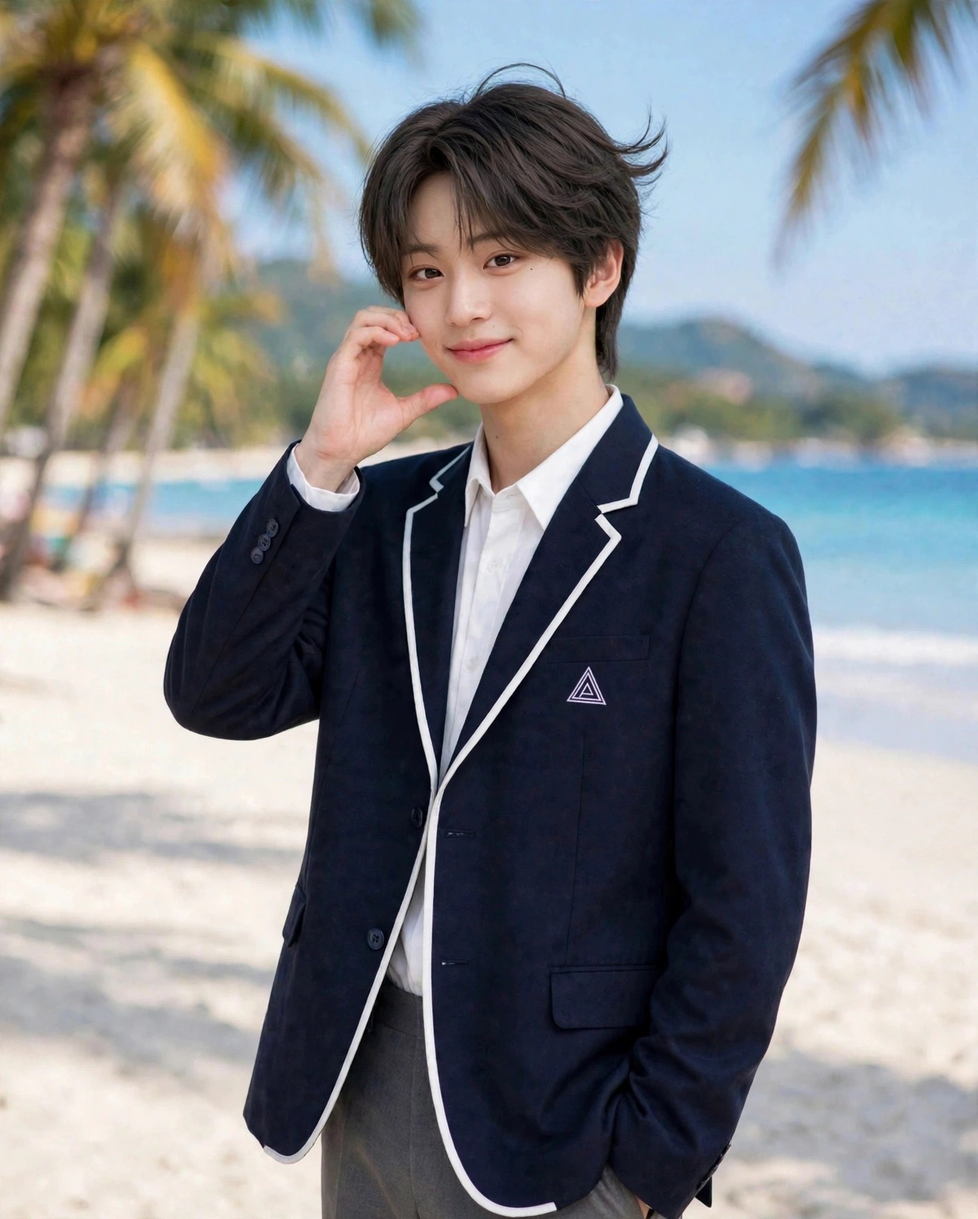
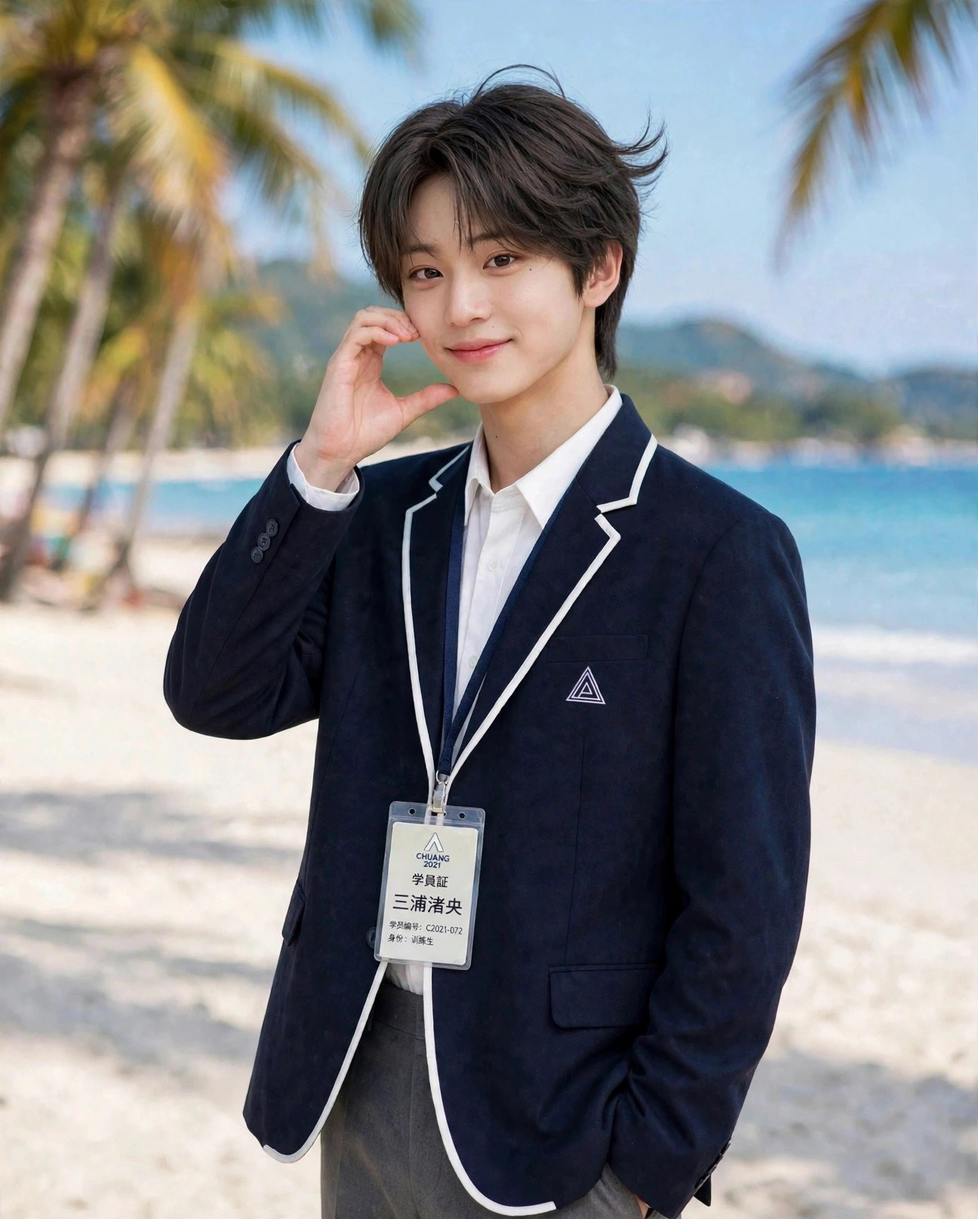
v153: 2021プロフィールに学員証を追加

diff --git a/index.html b/index.html
@@ -732,7 +732,7 @@ body{font-family:-apple-system,"Hiragino Kaku Gothic ProN","Noto Sans JP",sans-s
 <script>
 "use strict";
 const $=s=>document.querySelector(s);
-const VER="v152";
+const VER="v153";
 /* ============ state ============ */
 const DEF={idx:0,started:false,consented:false,soundOn:true,
  g:{iwakan:0,bare:0,todoita:0,uta:8,dance:4,ishi:50},
@@ -2472,7 +2472,7 @@ function renderSettings(tab){setTab=tab;document.querySelectorAll("#set-tabs but
  <div class="srow"><span>到達した結末</span><span class="sv">${S.trueEnd?"TRUE END ― 現在":S.normalEnd?"END ― 通常現在":S.loopBad?"BAD END ― ループ継続":S.bareEnd?"END ― 秘密バレIF":S.ridatsuEnd?"END ― 離脱した現在":"（まだ到達していません）"}</span></div>
  <div class="srow"><span>サウンド</span><span class="sv"><button id="snd-btn" style="background:${S.soundOn!==false?"#17172a":"#c6c6d4"};color:#fff;border:none;border-radius:999px;padding:6px 18px;font-size:12.5px;font-weight:700;cursor:pointer">${S.soundOn!==false?"ON":"OFF"}</button></span></div>
  <div class="srow"><span>フィクション</span><span class="sv">実在の記録をもとにした創作です</span></div>
- <div class="srow"><span>アップデート</span><span class="sv">v16 サウンドと画面遷移／v17 差分再演REPLAYとDiff時代別表示／v18 現在の小さな変化／v19 トークのスレッドとフリーチャット／v20・v23・v32 場面カットの追加／v21 日常回（食堂の夜・売店の夜）／v22 番組アプリの情報デザイン／v24 ホーム背景の時代連動と進行％／v25 タイトルのスライドショー／v26 彼の画面のカウンタ／v27 ロック画面の通知スタック／v28 写真の全画面ビューア／v30 章ごとの記録カード／v31 フィナーレ直前の彼の視点／v33 フリーチャットの時代別応答／v34 投票レシート／v35 ミッション進捗バー／v36 ゲージの危険域表示／v37 選んだ記録の判別表示／v38 台帳の時代別表示／v39 Keepsakeの時代バッジ／v41 章名つきロック画面／v42 トークの新着バッジ／v43 名簿の詳細パネル／v44 写真のスワイプ送り／v45 BGMの時代連動／v46 順位・差分の専用SE／v47 長押し早送り／v48 章セレクト／v50 REPLAY再演の追加／v52 日常回（コンビニの夜）／v53 タイトル通知のセーブ連動／v54 アプリアイコンのバッジ／v55 主人公の正式名「三浦渚央」と2019プロフィールの新フェイス差し替え／v56〜v59 プロフィール・場面カットの新フェイス再生成／v60 カード画角の統一（頭部55〜60%）と三浦渚央の順位表示／v61 名簿メモへの順位追記と凡例／v62 周B順位発表の彼の視点／v63 ストーリーバナーのサムネ時代連動／v64 タイトルに正式名／v65 ロック画面に順位通知／v66 情報タブに順位の記録／v67 順位行の文字色修正／v68 現在の小さな変化（順位の残響）／v69 写真メモに順位結果／v70 節目 ― 全アプリ走査／v71 フリーチャットの話題追加／v72 トークのチップ追加／v73・v74 順位タブの空状態整理／v75 順位変動のDiff記録／v76 節目 ― 全アプリ走査／v77 2021周A・初回ステージ後に彼の画面を追加／v78 2023周A・ファンカム章に彼の視点（インライン）を追加／v79 2019周A・順位発表式に彼の視点（インライン）を追加／v80 2023周A・VERY NICE本番前に彼の視点（インライン）を追加／v81 2023周A・寮の夜に彼の視点（インライン）を追加／v82 2019周A・届くはずのなかった手紙に彼の視点（インライン）を追加／v83 フリーチャットの話題拡充（2019専用プール＋新キーワード6種＋チップ追加）／v84 周Aの彼の記憶の線引きで全監査（2021・2023到着場面と彼の画面3件を連続した同僚の前提に書き換え）／v85 2019周A・練習室の夜に彼の視点（インライン）を追加／v86 2021周A・寮の一夜に彼の視点（インライン）を追加／v87 2023周A・コンビニの夜に彼の視点（インライン）を追加／v88 台帳・Keepsake・Diffの時代分類を修正（NXD期グループ新設、誤分類6件を是正）／v89 場面カット追加（2023順位発表の夜・face2基準で新規生成）／v90 場面カット追加（2021ファイナルの夜・face2基準で新規生成）／v91 節目 ― 全アプリ走査／v92 日常回「自販機の夜」（2023・周B）を追加／v93 2019周A・レベル分け評価に彼の視点（インライン）を追加／v94 写真アプリに時代別グルーピング（見出し＋枚数）を追加／v95 場面カット追加（NXD期・夜の練習室、face2基準で新規生成）／v96 フリーチャットの時代別プールを拡充（各時代＋2件）／v97 2019周B・発覚に彼の視点（インライン）を追加／v98 2021周B・再会に彼の視点（インライン）を追加／v99 2023周B・発覚に彼の視点（インライン）を追加／v100 節目 ― 全編通しプレイ検証／v101 効果音の配線追加（台帳・Keepsake・彼の視点）／v102 トークに彼のメッセージを3件追加／v103 タイトルのスライドショー拡充（8枚）とホーム背景のNXD期差し替え／v104 2023周B・再会に彼の視点（インライン）を追加／v105 2021周B・売店の夜に彼の視点（インライン）を追加／v106 NXD期・周B「移籍の決断」に彼の視点（インライン）を追加／v107 2023周B・共同作戦に彼の視点（インライン）を追加／v108 2019周B・共同作戦（ツカメ対策）に彼の視点（インライン）を追加／v109 2021周B・共同作戦に彼の視点（インライン）を追加／v110 NXD期・周B「延期の季節 ― 二度目」に彼の視点（インライン）を追加／v111 フリーチャット拡充（キーワード応答3種・チップ2件・現在編プール拡充）／v112 節目 ― 全アプリ走査／v113 2023周B・自販機の夜に彼の視点（インライン）を追加／v114 2019周A・食堂の夜に彼の視点（インライン）を追加／v115 2021周B・順位発表の締めに彼の視点（インライン）を追加／v116 設計ドキュメントの実装状況を更新／v117 場面カット追加（2019食堂の夜・face2基準で新規生成）／v118 場面カット追加（2021売店の夜・face2基準で新規生成）／v119 場面カット追加（2023コンビニの夜・face2基準で新規生成）／v120 背景の差し替え（現在編の冒頭とソロデビューの場面）／v121 節目 ― 全編通しプレイ検証（v101〜v120の追加後）／v122 画像出典メモ（IMAGE_SOURCES.md）に新規カット6点とface2基準を追記／v123 READMEの状態表記を現行（本編完結・公開中）に更新／v124 視覚QAで発見した順位タブの防御的修正（順位値の欠損時に最低ラインへフォールバック）／v125 節目 ― 全画面の視覚QA（撮影確認）／v126 節目 ― 別エンディング到達検証（秘密バレIF・離脱した現在）／v127 節目 ― 全5エンディング到達検証の完了（通常現在・ループ継続BADを追加確認）／v128 設計ドキュメントの実装状況に最終検証結果を追記／v129 READMEの現行版表記を更新／v130 生成メタファイルを .gitignore に追加して作業ツリーを整理／v131 「届くはずのなかった手紙」に背景を設定（食堂カットの引き継ぎを解消）／v132 フリーチャットの応答拡充（キーワード応答8種・時代別プール各+2件・チップ2件を追加）／v133 仕上げのUI調整（ホームのアプリアイコンのラベルの可読性を向上、ストーリー画面のゲージチップを均等な3+3配置に整形）／v134 フリーチャットに語学の話題を追加（中国語・韓国語・英語へのキーワード応答）／v135 節目 ― 朝まで改修の最終版（全アプリ走査・ドキュメント同期）／v136 トークを実物化（1相手=1スレッドに集約・未読バッジ・プレビュー・実物時刻・日付チップ・自分の送信への既読表示。仕組みは『現役アイドル、Tinderやってた件』のLINEと『キープ管理中！』の未読管理から移植）／v137 2021・2023の渚央プロフィールを制服版に統一（創造営の紺制服／ボイプラの淡グレー制服。名簿・順位・パネル・背景・写真の参照を全て profile-uniform 系へ）／v138 ロック画面とホームの実物化（主通知の送信者を実アプリ名にし未読トークがあれば最新メッセージを表示、日付を月日＋曜日の実物形式に、ホームと写真の操作説明文を撤去）／v139 トークをTinder版（v462）LINEと実測比較して一致（バブルの角・色・文字サイズ、入力欄、送信ボタン、日付チップ、一覧の行構成と検索ボックス、スレッドヘッダーのアバター）／v140 トークにLINEアプリのシェルを移植（下部タブバー＋タブ画面を新設。タブの数・並び・切替挙動はTinder版LINEと同一で、ホームタブは三浦渚央のプロフィール＋届いた応援カード＋友だちリストのパネル、ニュースは番組アプリ、その他は設定・記録へ接続）／v141 ロック画面の進化（時計を88px・太字に、通知カードをblur20px＋saturateの実物仕様にして幅を統一、スタック通知のアイコンをアプリ別SVGに分けて出現をスタッガード化。ステータスバーと電池％を追加し、壁紙を時代連動＋緩やかなズームに。下部のライトは白フラッシュが光る実働ボタンに、カメラは写真アプリへ直行。通知はタップで該当アプリ・記録へ遷移）／v142 ホーム画面の進化（Tinder版ホームのページ構成を移植：飾りだったドットを実働の2ページ化にし、横スワイプとドットタップで切替。2ページ目に物語暦のカレンダーウィジェットと時代のカットが切り替わる写真ウィジェットを新設し、記録サマリと次のミッションを移設。ドットの横に検索ピルを追加し、アプリ・記録を検索して直接開けるシートを実装。下部にガラスのドック（トーク／写真／番組アプリ／設定・記録、バッジ連動）を追加。ステータスバーに電池％、壁紙に緩やかなズーム）／v143 ロック画面の通知スタックの隙間を修正（ベースCSSの上マージン34pxがスタック内の通知にも効いて間隔が42pxに広がっていたのを、実物どおり8pxに統一。あわせて通知領域を時計の下〜下部ボタンの上のスクロール領域にして、通知が多くてもライト／カメラのボタンやヒント文字に重ならないようにした）／v144 写真アプリの進化（『現役アイドル、Tinderやってた件』の写真アプリから移植：2列カード型だったグリッドを3列・隙間2px・正方形の実物仕様にし、時代見出し＋枚数のヘッダーと上部のピル型タブ（すべて／時代別で絞り込み）を新設。ビューアはお気に入り（セーブに保持、グリッドにもハート表示）とスライドショーを追加し、送りを循環式から端で止まるクランプ式に変更、キャプション＋差分メモ＋時代＋通し番号のメタ表示とキー操作に対応。複数選択モード（最大4枚）からコラージュを作成でき、ロック画面の壁紙にも設定できる（時代連動に戻す導線つき）。中身の時代別カットと枚数は従来どおり）／v145 アプリアイコンをTinder版の様式に統一（アイコンを全面SVG化し、背景レイヤーまで1枚に収める方式へ。トーク＝LINE・写真・設定・記録はTinder版と同型のアイコンに、番組アプリは金の縦グラデーション＋王冠のグリフで同水準に。アイコンの角丸と影もTinder版の実測値に一致。あわせてラベル用ピルのCSSがドックのアイコンにも漏れて円形になっていた不具合を修正し、ドックでもグリッドと同じ角丸アイコンが並ぶようにした）／v147 渚央の顔を最終基準（本人の写真由来の顔＋クールな髪型）へ差し替え開始。2023編のプロフィール（基準画像そのものへ差し替え、カード用クロップも新基準で作成）と場面カット全8点を基準顔で再生成／v148 2021編を新基準へ差し替え（プロフィールは19歳相当＋創造営制服＋屋外背景で新規生成、カード用クロップも作成。場面カット5点＝daily／practice／ranking-close／study／shop-nightを19歳相当の基準顔で再生成。stageは次版で差し替え予定）／v149 2019編を新基準へ全面差し替え（プロフィールは17歳相当で再生成し直し、カード用クロップも新規作成。場面カット7点＝stage／stage2／dorm／practice／ranking-close／selfie／cafeteriaを17歳相当の基準顔で再生成）。リンクプレビュー用のog:image（新stageから作成）も新設／v150 旧素材（候補ファイル群・旧プロフィール）を保管庫へ退避し、顔素材を新基準のラインに統一（表示内容の変更なし）／v151 2021のステージカットを新顔基準（19歳版）で差し替え、顔の全面差し替えが完了／v152 全時代のプロフィールをポーズ付きに作り直し（2019＝ガッツポーズの全身ショット、2021＝頬ハートの膝上ショット、2023＝腕組みのウエスト上ショット。顔は新基準のラインを維持し、寄りクロップも新しい全身から作り直し）</span></div>
+ <div class="srow"><span>アップデート</span><span class="sv">v16 サウンドと画面遷移／v17 差分再演REPLAYとDiff時代別表示／v18 現在の小さな変化／v19 トークのスレッドとフリーチャット／v20・v23・v32 場面カットの追加／v21 日常回（食堂の夜・売店の夜）／v22 番組アプリの情報デザイン／v24 ホーム背景の時代連動と進行％／v25 タイトルのスライドショー／v26 彼の画面のカウンタ／v27 ロック画面の通知スタック／v28 写真の全画面ビューア／v30 章ごとの記録カード／v31 フィナーレ直前の彼の視点／v33 フリーチャットの時代別応答／v34 投票レシート／v35 ミッション進捗バー／v36 ゲージの危険域表示／v37 選んだ記録の判別表示／v38 台帳の時代別表示／v39 Keepsakeの時代バッジ／v41 章名つきロック画面／v42 トークの新着バッジ／v43 名簿の詳細パネル／v44 写真のスワイプ送り／v45 BGMの時代連動／v46 順位・差分の専用SE／v47 長押し早送り／v48 章セレクト／v50 REPLAY再演の追加／v52 日常回（コンビニの夜）／v53 タイトル通知のセーブ連動／v54 アプリアイコンのバッジ／v55 主人公の正式名「三浦渚央」と2019プロフィールの新フェイス差し替え／v56〜v59 プロフィール・場面カットの新フェイス再生成／v60 カード画角の統一（頭部55〜60%）と三浦渚央の順位表示／v61 名簿メモへの順位追記と凡例／v62 周B順位発表の彼の視点／v63 ストーリーバナーのサムネ時代連動／v64 タイトルに正式名／v65 ロック画面に順位通知／v66 情報タブに順位の記録／v67 順位行の文字色修正／v68 現在の小さな変化（順位の残響）／v69 写真メモに順位結果／v70 節目 ― 全アプリ走査／v71 フリーチャットの話題追加／v72 トークのチップ追加／v73・v74 順位タブの空状態整理／v75 順位変動のDiff記録／v76 節目 ― 全アプリ走査／v77 2021周A・初回ステージ後に彼の画面を追加／v78 2023周A・ファンカム章に彼の視点（インライン）を追加／v79 2019周A・順位発表式に彼の視点（インライン）を追加／v80 2023周A・VERY NICE本番前に彼の視点（インライン）を追加／v81 2023周A・寮の夜に彼の視点（インライン）を追加／v82 2019周A・届くはずのなかった手紙に彼の視点（インライン）を追加／v83 フリーチャットの話題拡充（2019専用プール＋新キーワード6種＋チップ追加）／v84 周Aの彼の記憶の線引きで全監査（2021・2023到着場面と彼の画面3件を連続した同僚の前提に書き換え）／v85 2019周A・練習室の夜に彼の視点（インライン）を追加／v86 2021周A・寮の一夜に彼の視点（インライン）を追加／v87 2023周A・コンビニの夜に彼の視点（インライン）を追加／v88 台帳・Keepsake・Diffの時代分類を修正（NXD期グループ新設、誤分類6件を是正）／v89 場面カット追加（2023順位発表の夜・face2基準で新規生成）／v90 場面カット追加（2021ファイナルの夜・face2基準で新規生成）／v91 節目 ― 全アプリ走査／v92 日常回「自販機の夜」（2023・周B）を追加／v93 2019周A・レベル分け評価に彼の視点（インライン）を追加／v94 写真アプリに時代別グルーピング（見出し＋枚数）を追加／v95 場面カット追加（NXD期・夜の練習室、face2基準で新規生成）／v96 フリーチャットの時代別プールを拡充（各時代＋2件）／v97 2019周B・発覚に彼の視点（インライン）を追加／v98 2021周B・再会に彼の視点（インライン）を追加／v99 2023周B・発覚に彼の視点（インライン）を追加／v100 節目 ― 全編通しプレイ検証／v101 効果音の配線追加（台帳・Keepsake・彼の視点）／v102 トークに彼のメッセージを3件追加／v103 タイトルのスライドショー拡充（8枚）とホーム背景のNXD期差し替え／v104 2023周B・再会に彼の視点（インライン）を追加／v105 2021周B・売店の夜に彼の視点（インライン）を追加／v106 NXD期・周B「移籍の決断」に彼の視点（インライン）を追加／v107 2023周B・共同作戦に彼の視点（インライン）を追加／v108 2019周B・共同作戦（ツカメ対策）に彼の視点（インライン）を追加／v109 2021周B・共同作戦に彼の視点（インライン）を追加／v110 NXD期・周B「延期の季節 ― 二度目」に彼の視点（インライン）を追加／v111 フリーチャット拡充（キーワード応答3種・チップ2件・現在編プール拡充）／v112 節目 ― 全アプリ走査／v113 2023周B・自販機の夜に彼の視点（インライン）を追加／v114 2019周A・食堂の夜に彼の視点（インライン）を追加／v115 2021周B・順位発表の締めに彼の視点（インライン）を追加／v116 設計ドキュメントの実装状況を更新／v117 場面カット追加（2019食堂の夜・face2基準で新規生成）／v118 場面カット追加（2021売店の夜・face2基準で新規生成）／v119 場面カット追加（2023コンビニの夜・face2基準で新規生成）／v120 背景の差し替え（現在編の冒頭とソロデビューの場面）／v121 節目 ― 全編通しプレイ検証（v101〜v120の追加後）／v122 画像出典メモ（IMAGE_SOURCES.md）に新規カット6点とface2基準を追記／v123 READMEの状態表記を現行（本編完結・公開中）に更新／v124 視覚QAで発見した順位タブの防御的修正（順位値の欠損時に最低ラインへフォールバック）／v125 節目 ― 全画面の視覚QA（撮影確認）／v126 節目 ― 別エンディング到達検証（秘密バレIF・離脱した現在）／v127 節目 ― 全5エンディング到達検証の完了（通常現在・ループ継続BADを追加確認）／v128 設計ドキュメントの実装状況に最終検証結果を追記／v129 READMEの現行版表記を更新／v130 生成メタファイルを .gitignore に追加して作業ツリーを整理／v131 「届くはずのなかった手紙」に背景を設定（食堂カットの引き継ぎを解消）／v132 フリーチャットの応答拡充（キーワード応答8種・時代別プール各+2件・チップ2件を追加）／v133 仕上げのUI調整（ホームのアプリアイコンのラベルの可読性を向上、ストーリー画面のゲージチップを均等な3+3配置に整形）／v134 フリーチャットに語学の話題を追加（中国語・韓国語・英語へのキーワード応答）／v135 節目 ― 朝まで改修の最終版（全アプリ走査・ドキュメント同期）／v136 トークを実物化（1相手=1スレッドに集約・未読バッジ・プレビュー・実物時刻・日付チップ・自分の送信への既読表示。仕組みは『現役アイドル、Tinderやってた件』のLINEと『キープ管理中！』の未読管理から移植）／v137 2021・2023の渚央プロフィールを制服版に統一（創造営の紺制服／ボイプラの淡グレー制服。名簿・順位・パネル・背景・写真の参照を全て profile-uniform 系へ）／v138 ロック画面とホームの実物化（主通知の送信者を実アプリ名にし未読トークがあれば最新メッセージを表示、日付を月日＋曜日の実物形式に、ホームと写真の操作説明文を撤去）／v139 トークをTinder版（v462）LINEと実測比較して一致（バブルの角・色・文字サイズ、入力欄、送信ボタン、日付チップ、一覧の行構成と検索ボックス、スレッドヘッダーのアバター）／v140 トークにLINEアプリのシェルを移植（下部タブバー＋タブ画面を新設。タブの数・並び・切替挙動はTinder版LINEと同一で、ホームタブは三浦渚央のプロフィール＋届いた応援カード＋友だちリストのパネル、ニュースは番組アプリ、その他は設定・記録へ接続）／v141 ロック画面の進化（時計を88px・太字に、通知カードをblur20px＋saturateの実物仕様にして幅を統一、スタック通知のアイコンをアプリ別SVGに分けて出現をスタッガード化。ステータスバーと電池％を追加し、壁紙を時代連動＋緩やかなズームに。下部のライトは白フラッシュが光る実働ボタンに、カメラは写真アプリへ直行。通知はタップで該当アプリ・記録へ遷移）／v142 ホーム画面の進化（Tinder版ホームのページ構成を移植：飾りだったドットを実働の2ページ化にし、横スワイプとドットタップで切替。2ページ目に物語暦のカレンダーウィジェットと時代のカットが切り替わる写真ウィジェットを新設し、記録サマリと次のミッションを移設。ドットの横に検索ピルを追加し、アプリ・記録を検索して直接開けるシートを実装。下部にガラスのドック（トーク／写真／番組アプリ／設定・記録、バッジ連動）を追加。ステータスバーに電池％、壁紙に緩やかなズーム）／v143 ロック画面の通知スタックの隙間を修正（ベースCSSの上マージン34pxがスタック内の通知にも効いて間隔が42pxに広がっていたのを、実物どおり8pxに統一。あわせて通知領域を時計の下〜下部ボタンの上のスクロール領域にして、通知が多くてもライト／カメラのボタンやヒント文字に重ならないようにした）／v144 写真アプリの進化（『現役アイドル、Tinderやってた件』の写真アプリから移植：2列カード型だったグリッドを3列・隙間2px・正方形の実物仕様にし、時代見出し＋枚数のヘッダーと上部のピル型タブ（すべて／時代別で絞り込み）を新設。ビューアはお気に入り（セーブに保持、グリッドにもハート表示）とスライドショーを追加し、送りを循環式から端で止まるクランプ式に変更、キャプション＋差分メモ＋時代＋通し番号のメタ表示とキー操作に対応。複数選択モード（最大4枚）からコラージュを作成でき、ロック画面の壁紙にも設定できる（時代連動に戻す導線つき）。中身の時代別カットと枚数は従来どおり）／v145 アプリアイコンをTinder版の様式に統一（アイコンを全面SVG化し、背景レイヤーまで1枚に収める方式へ。トーク＝LINE・写真・設定・記録はTinder版と同型のアイコンに、番組アプリは金の縦グラデーション＋王冠のグリフで同水準に。アイコンの角丸と影もTinder版の実測値に一致。あわせてラベル用ピルのCSSがドックのアイコンにも漏れて円形になっていた不具合を修正し、ドックでもグリッドと同じ角丸アイコンが並ぶようにした）／v147 渚央の顔を最終基準（本人の写真由来の顔＋クールな髪型）へ差し替え開始。2023編のプロフィール（基準画像そのものへ差し替え、カード用クロップも新基準で作成）と場面カット全8点を基準顔で再生成／v148 2021編を新基準へ差し替え（プロフィールは19歳相当＋創造営制服＋屋外背景で新規生成、カード用クロップも作成。場面カット5点＝daily／practice／ranking-close／study／shop-nightを19歳相当の基準顔で再生成。stageは次版で差し替え予定）／v149 2019編を新基準へ全面差し替え（プロフィールは17歳相当で再生成し直し、カード用クロップも新規作成。場面カット7点＝stage／stage2／dorm／practice／ranking-close／selfie／cafeteriaを17歳相当の基準顔で再生成）。リンクプレビュー用のog:image（新stageから作成）も新設／v150 旧素材（候補ファイル群・旧プロフィール）を保管庫へ退避し、顔素材を新基準のラインに統一（表示内容の変更なし）／v151 2021のステージカットを新顔基準（19歳版）で差し替え、顔の全面差し替えが完了／v153 2021プロフィールに創造営の学員証を追加（メンバーが付けている装着物に合わせた。2019は名札が既存仕様どおり、2023は装着物なしが実物どおり）。<br>v152 全時代のプロフィールをポーズ付きに作り直し（2019＝ガッツポーズの全身ショット、2021＝頬ハートの膝上ショット、2023＝腕組みのウエスト上ショット。顔は新基準のラインを維持し、寄りクロップも新しい全身から作り直し）</span></div>
  <div class="pad"><p class="small">エンディングは5種（TRUE現在／通常現在／離脱した現在／秘密バレIF／ループ継続BAD）。結末は、彼の岐路での関わり・手がかり（Keepsakeと届いた数）・男装バレ度・最後の選択で分かれます。なお「デビューしてしまう現在」はIF候補として設計にのみ記録され、本編では採用していません（デビューメンバー構成は不変のため）。</p></div>
  <div class="pad"><button class="btn" id="reset-btn" style="background:#ff3b30">データを消して最初から</button></div>`;
  const rb=$("#reset-btn");if(rb)rb.onclick=()=>{if(confirm("セーブデータを消して最初から始めますか？")){localStorage.removeItem("tlSaveV2");location.reload();}};
